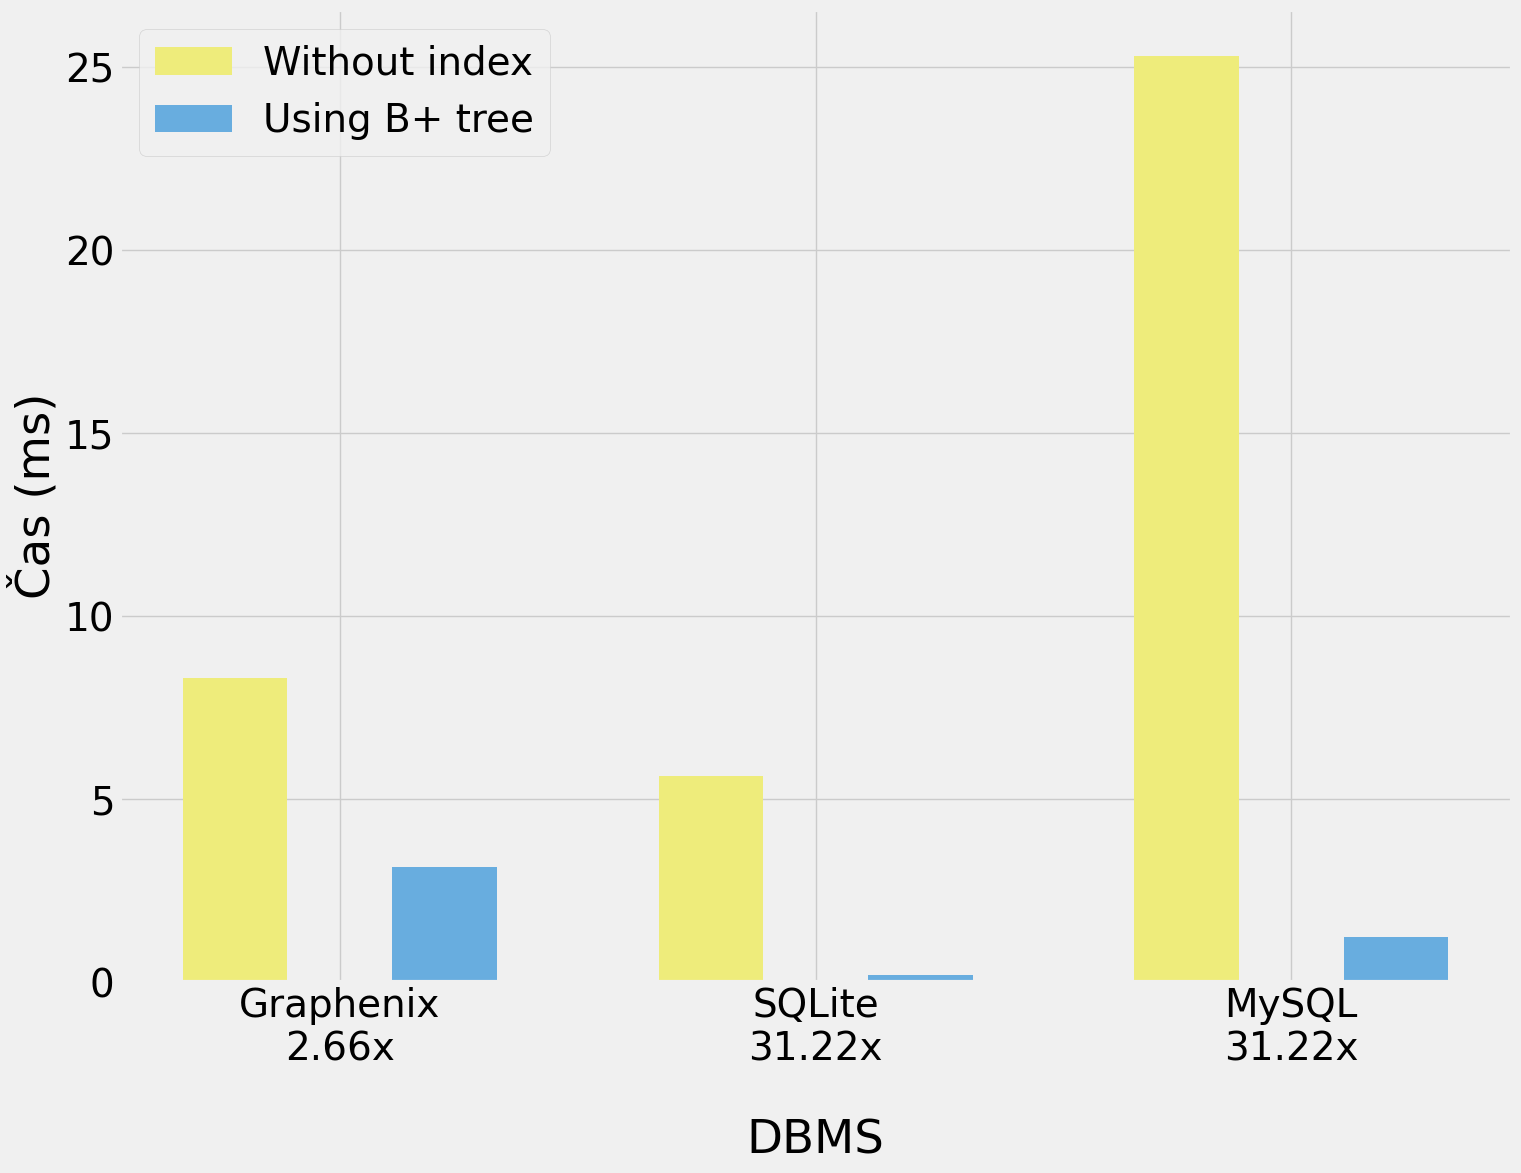
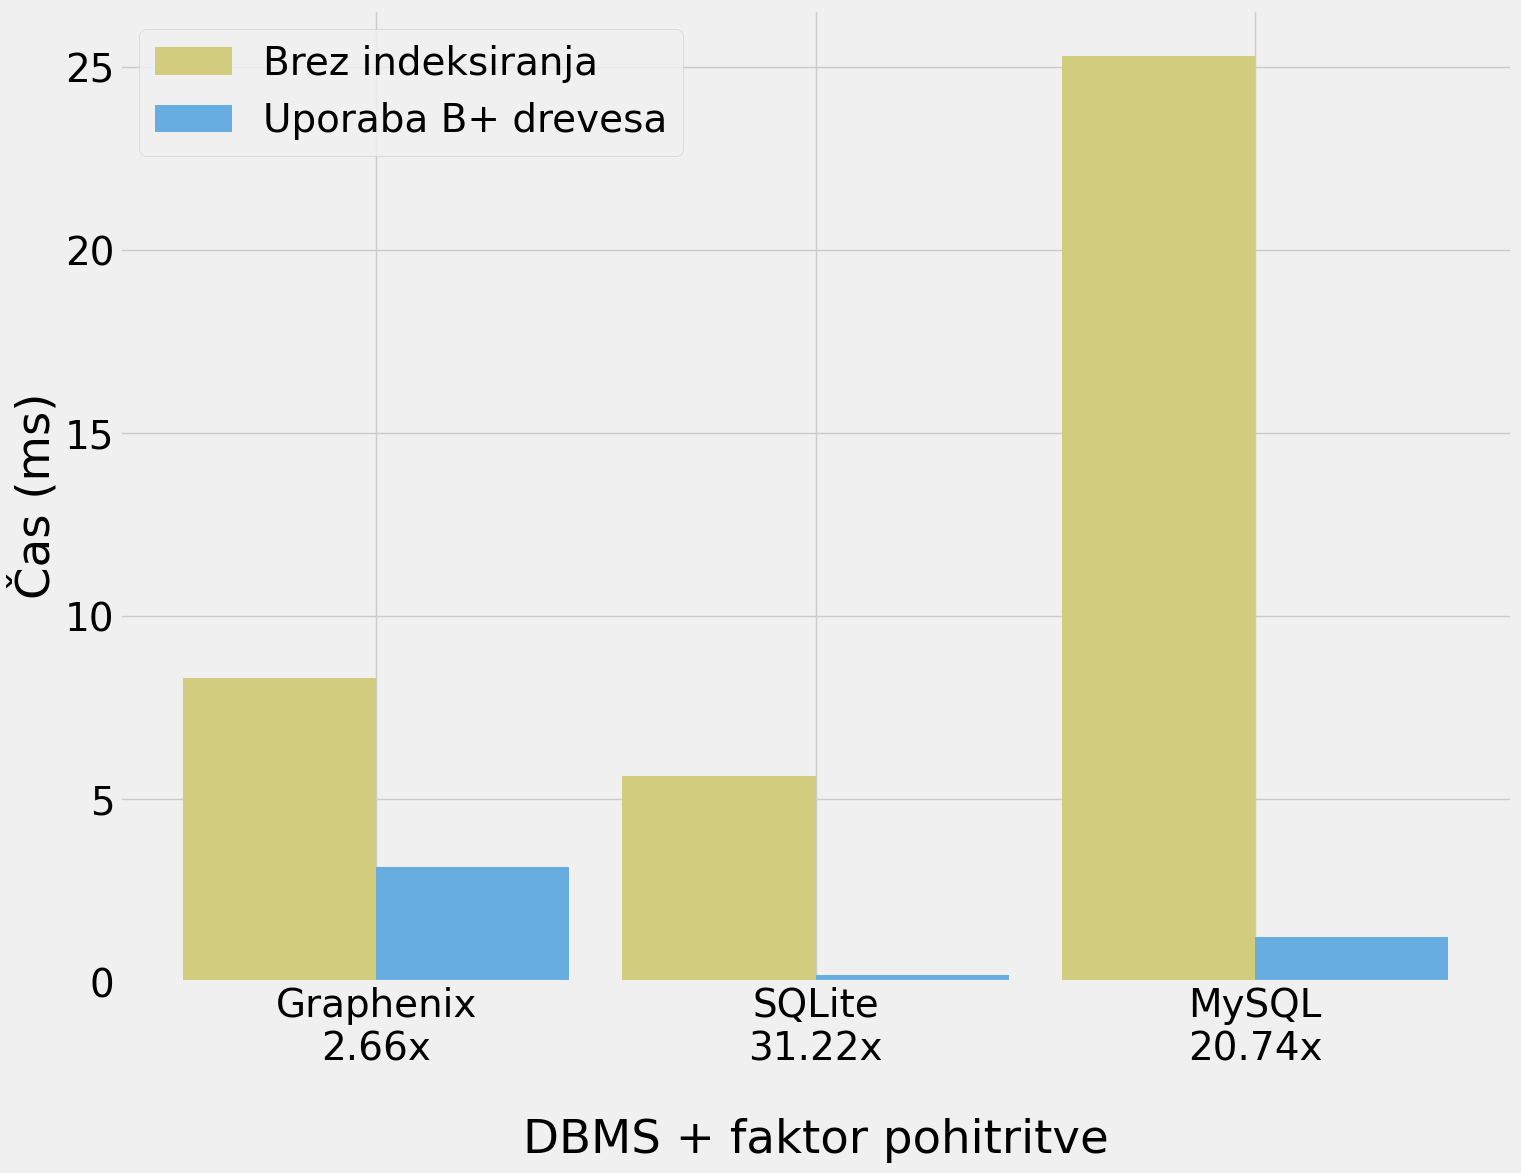
graph fixes

diff --git a/analysis/find_no_index/graph_size.py b/analysis/find_no_index/graph_size.py
@@ -27,11 +27,11 @@ def main():
     fig, ax = plt.subplots(figsize=(16, 12))
     width = 0.22
     
-    ax.bar(x_values - width, no_index, width, label='Without index', color="#EEEC7B")
-    ax.bar(x_values + width, indexed, width, label=f'Using B+ tree', color="#68ADDF")
+    ax.bar(x_values - width, no_index, width * 2, label='Brez indeksiranja', color="#D2CC7E")
+    ax.bar(x_values + width, indexed, width * 2, label=f'Uporaba B+ drevesa', color="#68ADDF")
 
     # Set labels and title
-    ax.set_xlabel('DBMS')
+    ax.set_xlabel('DBMS + faktor pohitritve')
     ax.set_ylabel('Čas (ms)')
     ax.set_title('')
     ax.set_xticks(x_values)
@@ -39,7 +39,7 @@ def main():
     ax.set_xticklabels([
         f'Graphenix\n{speedups[0]:.2f}x\n',
         f'SQLite\n{speedups[1]:.2f}x\n',
-        f'MySQL\n{speedups[1]:.2f}x\n'
+        f'MySQL\n{speedups[2]:.2f}x\n'
     ])
 
     # for bar in bars:
